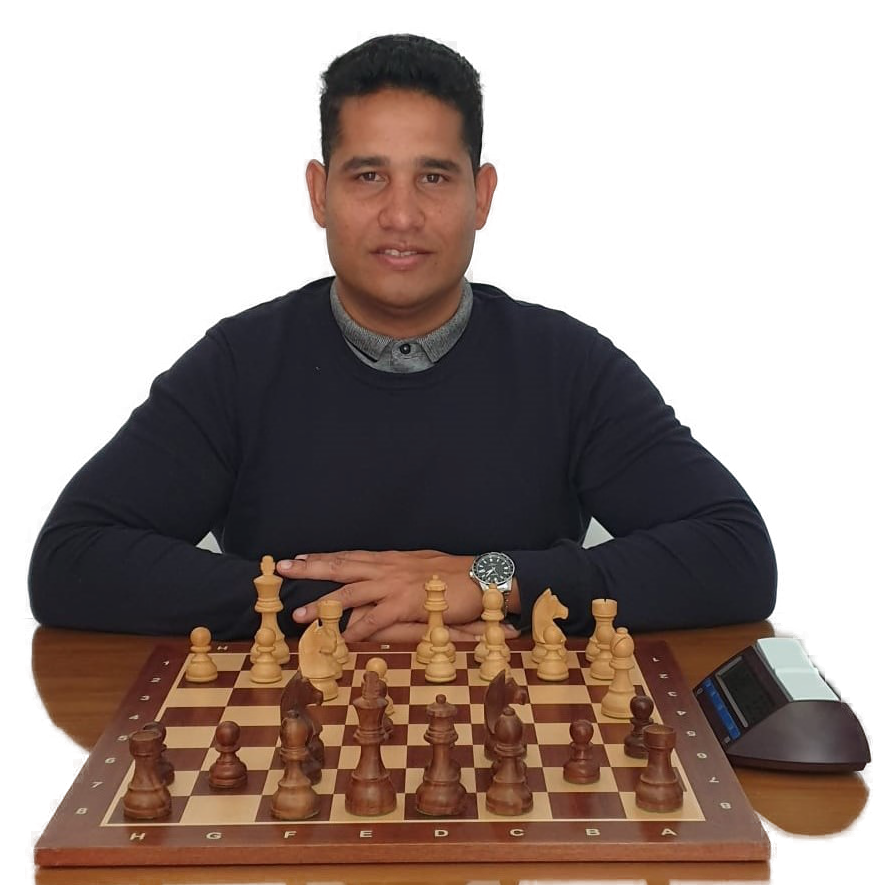
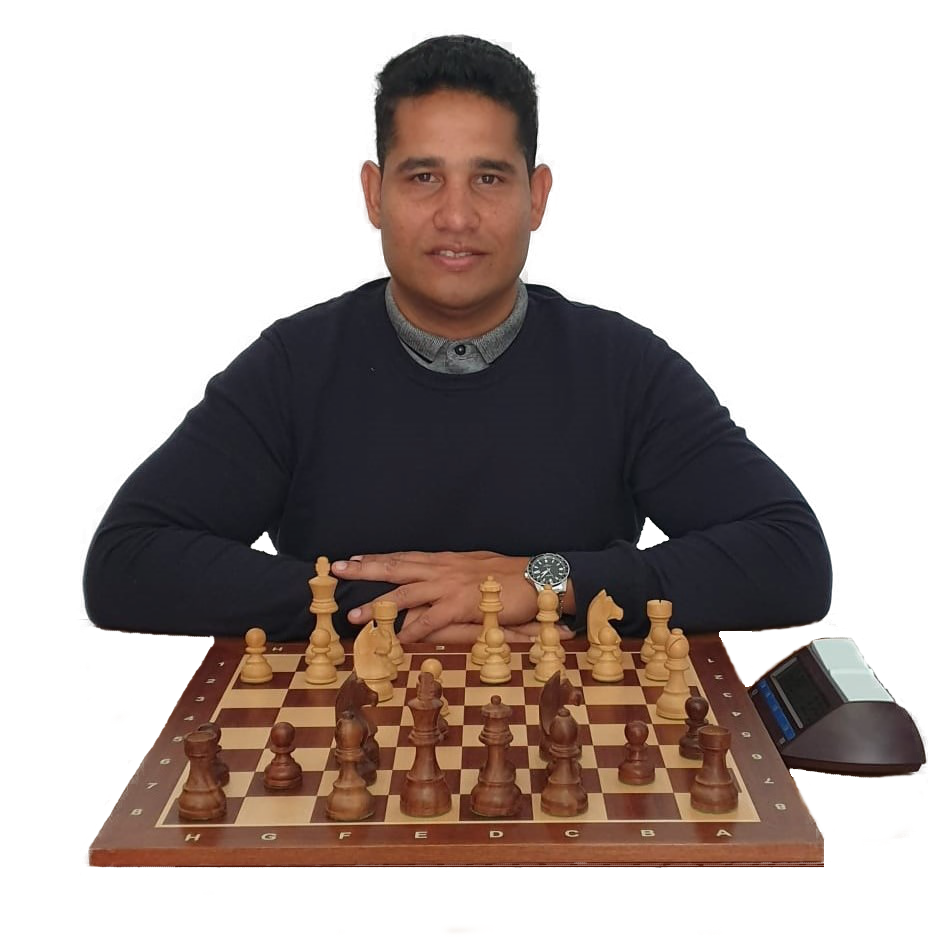
working on home

diff --git a/src/Components/Home.js b/src/Components/Home.js
@@ -1,16 +1,26 @@
-import {Container, Row, Col} from 'react-bootstrap';
-import roberto from './assets/nobg-ledo-2.png';
+import {Container, Row, Col, Card, CardImg} from 'react-bootstrap';
+import { SiLichess } from "react-icons/si";
+import {FaPhoneAlt} from 'react-icons/fa';
+import {HiOutlineMail} from 'react-icons/hi';
+import roberto from './assets/nobg-ledo-3.png';
 import './Home.scss'
 
 const Home = () => {
    return (
-      <Container>
+      <Container fluid className='container-home'>
          <Row>
             <Col lg="6">
-               
-            </Col>
-            <Col lg="6">
               <img src={roberto} alt="roberto gomez" className='author'/>
+            </Col>
+            <Col lg="6" className='header-info'>
+               <h1>Classes Magistrales <SiLichess size={36}/></h1> 
+               
+               <h4>Para todos los niveles</h4>
+               <h4>Conozca los secretos de la escuela Cubana de Ajedrez</h4>
+               <h1 className='name'><strong>IM</strong> Roberto Carlos Gomez Ledo</h1>
+               <p className='results'>Lorem ipsum, dolor sit amet consectetur adipisicing elit. Sit tenetur molestias iste ullam minima cupiditate repellat placeat obcaecati quo. Laboriosam in temporibus cum eaque similique? Natus obcaecati consectetur laboriosam explicabo illum. Cumque, voluptatem consequuntur quaerat, laborum explicabo sequi atque odio, fuga illo culpa odit! Dolor nostrum repudiandae voluptas animi cupiditate?</p>
+               <p className='phone'> <FaPhoneAlt size={26} /> +34 600 836 909</p>
+               <p className='email'> <HiOutlineMail size={30} /> rcgledo@gmail.com</p>
             </Col>
          </Row>
       

diff --git a/src/Components/Home.scss b/src/Components/Home.scss
@@ -1,7 +1,46 @@
 @import '../Components/shares/vaiables.scss';
 
+
+
 .author {
-   text-align: center;
-   justify-content: center;
-   //border-radius: 50%;
+   text-align: center !important;
+   justify-content: center !important;
+   align-items: center !important;
+   margin: 8rem 0 0 8rem;
+   //display: flex;
+   //flex: start !important;
+}
+
+// .container-home {
+//    background-image: url("./assets/bg-img.jpg");
+//    opacity: .3;
+// }
+.header-info h1 {
+   margin: 12rem 0 3rem 0;
+   font-size: 5rem;
+   font-weight: 600;
+
+   &.name {
+      margin-top: 3rem;
+   }
+
+}
+
+.header-info h4 {
+   font-size: 2rem;
+   margin-bottom: 1rem;
+}
+
+.results {
+   font-size: 1.5rem;
+   margin-right: 3rem;
+}
+
+.phone {
+   font-size: 1.8rem;
+   margin-top: 3rem;
+}
+.email {
+   font-size: 1.8rem;
+   margin-top: 3rem;
 }

diff --git a/src/index.scss b/src/index.scss
@@ -16,8 +16,18 @@ body {
   font-family: 'Lora', serif, 'Lobster', cursive !important;
   line-height: 1.5;
   color: $color-text !important;
-  background-color: #f3bb80 !important;
+  background-color: $bg-color !important;
   //background-color: #243C74 !important;
   -webkit-font-smoothing: antialiased;
   -moz-osx-font-smoothing: grayscale;
+  background: $bg-color;
+  background-image: 
+        // radial-gradient(at 47% 33%, #faf0d9 0, transparent 59%), 
+        // radial-gradient(at 82% 65%, #f8e2e3 0, transparent 55%);
+        radial-gradient(at 47% 33%, #f7a677 0, transparent 59%), 
+        radial-gradient(at 82% 65%, #f8e2e3 0, transparent 55%);
+        box-shadow: inset 0 0 0 1000px rgba(247, 242, 242, 0.2);
+  
+  padding: 4.5rem;
+  margin: 0;
 }

diff --git a/src/Components/shares/vaiables.scss b/src/Components/shares/vaiables.scss
@@ -15,3 +15,5 @@ $primary-white: #fff;
 $primary-error: #f33501;
 $primary-success: green;
 $color-shade: #733c00;
+$bg-color: #ffe4c4;
+//$bg-color: #f3ece2;
